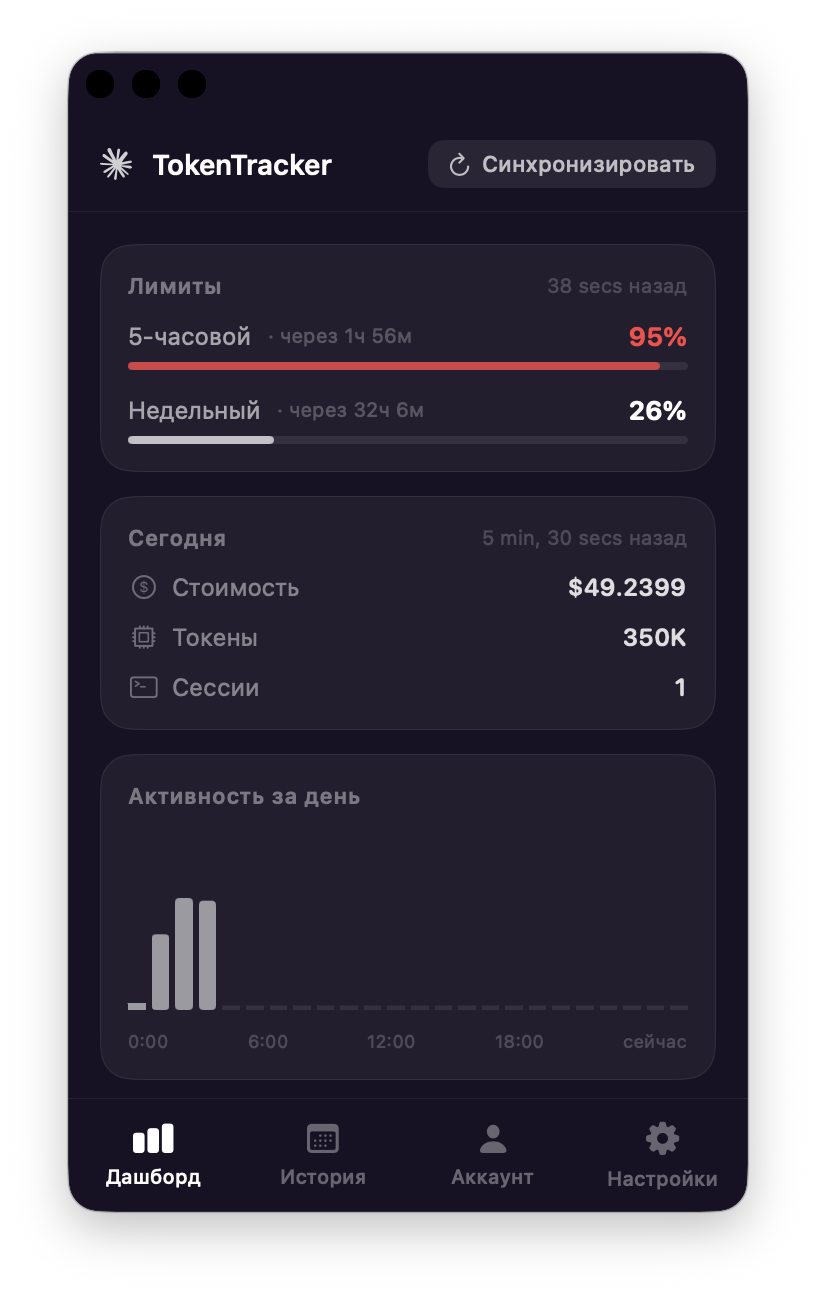
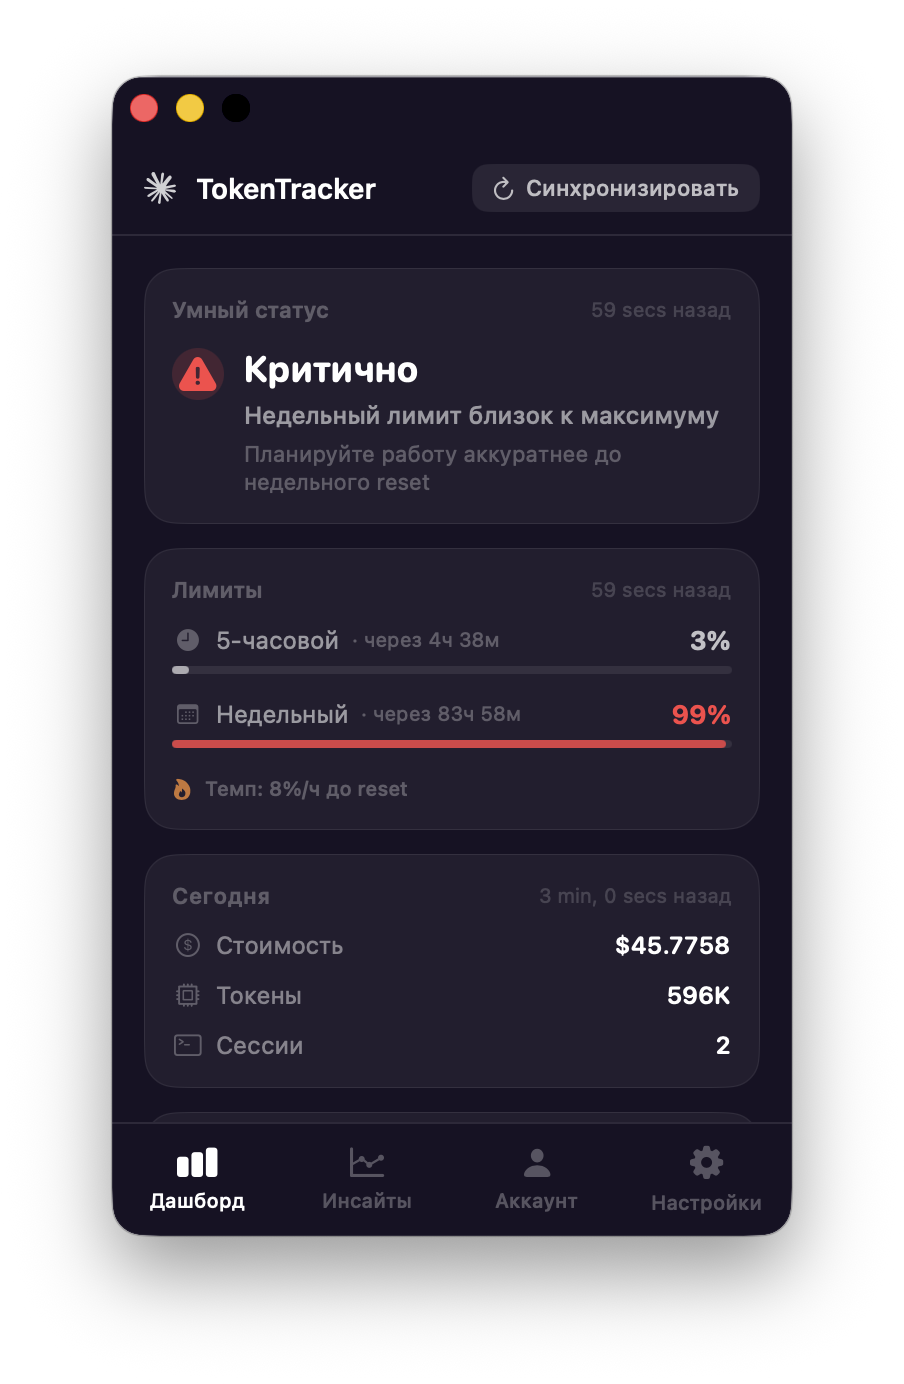
docs: refresh 1.4 screenshots

diff --git a/README.md b/README.md
@@ -10,9 +10,11 @@
 ---
 
 <p align="center">
-  <img src="docs/screenshots/dashboard.png" width="240" alt="Dashboard" />
+  <img src="docs/screenshots/dashboard.png" width="220" alt="Smart dashboard" />
   &nbsp;
-  <img src="docs/screenshots/history.png" width="240" alt="Insights" />
+  <img src="docs/screenshots/history.png" width="220" alt="Insights" />
+  &nbsp;
+  <img src="docs/screenshots/settings.png" width="220" alt="Settings and widget health" />
 </p>
 
 <p align="center">
